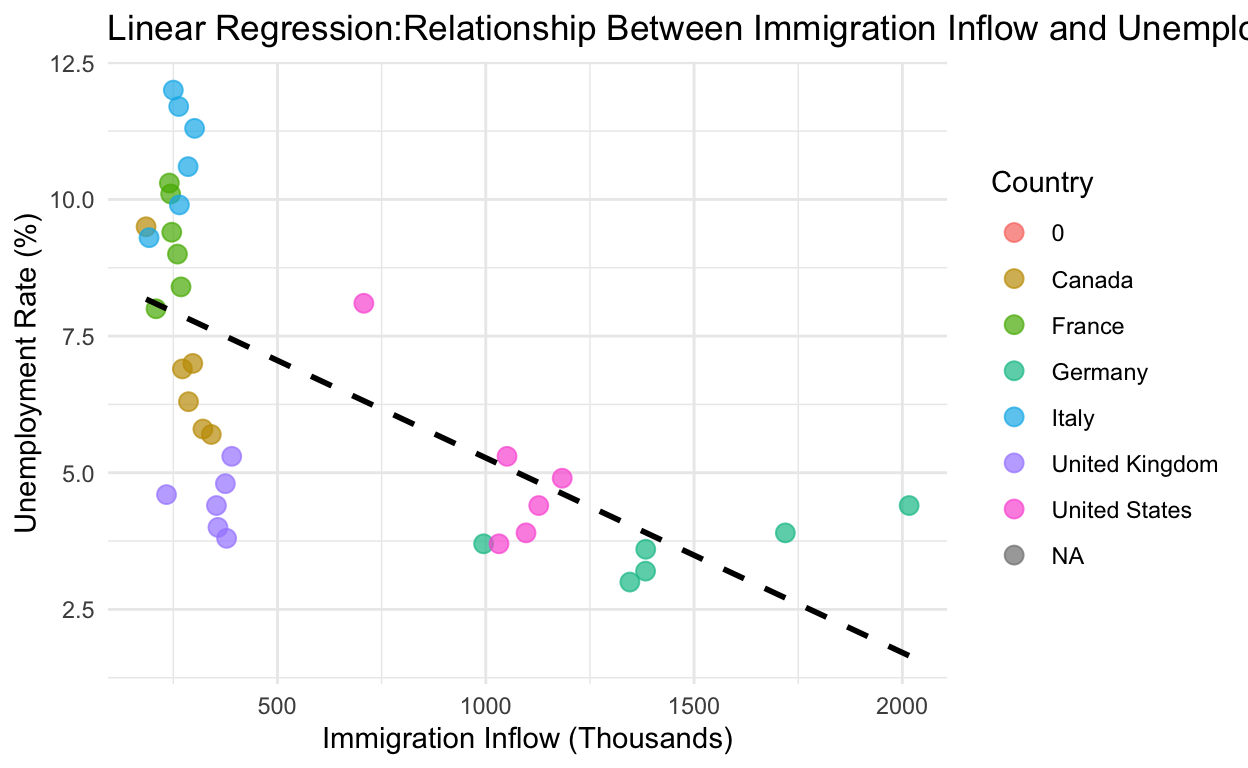
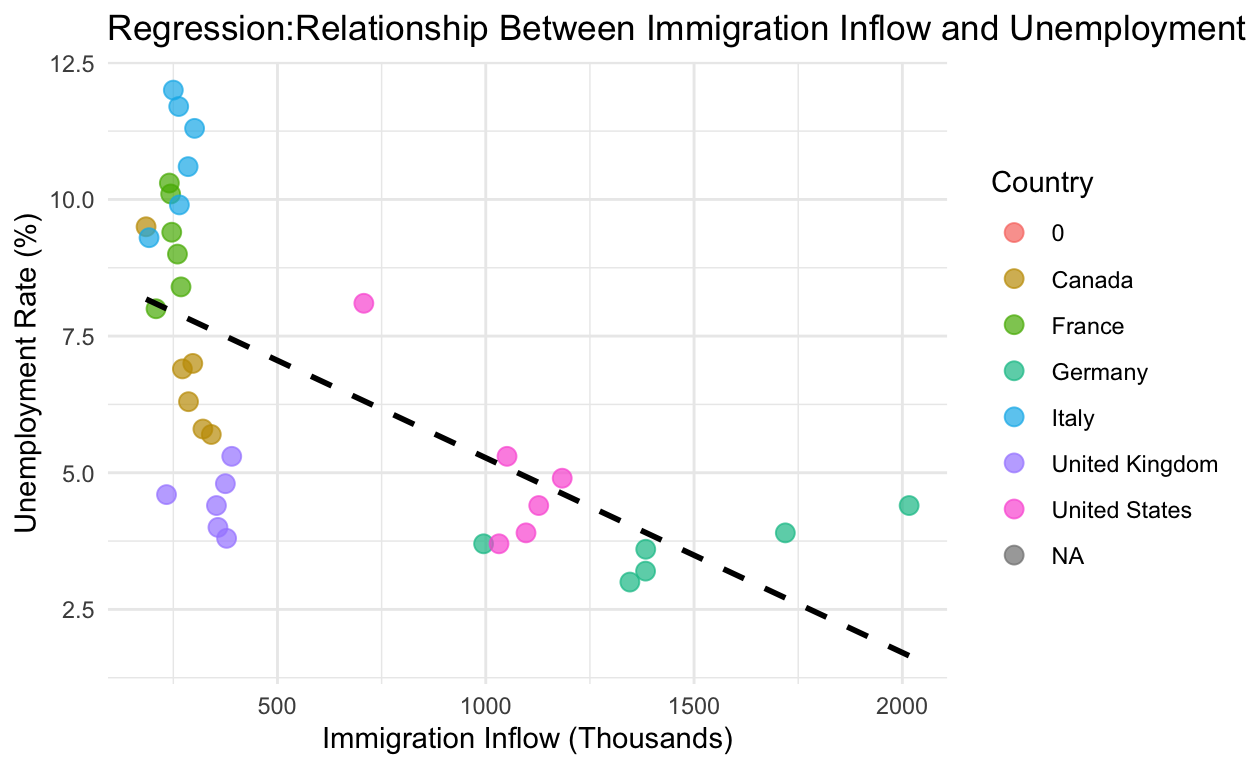
Final Proj 3

Changed region(s): [[0.0938, 0.0, 1.0, 0.0625]]

diff --git a/index.html b/index.html
@@ -1726,7 +1726,7 @@ F-statistic: 23.74 on 1 and 34 DF,  p-value: 2.515e-05</code></pre>
 <span>  <span class='fu'><a href='https://ggplot2.tidyverse.org/reference/geom_point.html'>geom_point</a></span><span class='op'>(</span>size <span class='op'>=</span> <span class='fl'>3</span>, alpha <span class='op'>=</span> <span class='fl'>0.7</span><span class='op'>)</span> <span class='op'>+</span></span>
 <span>  <span class='fu'><a href='https://ggplot2.tidyverse.org/reference/geom_smooth.html'>geom_smooth</a></span><span class='op'>(</span>method <span class='op'>=</span> <span class='st'>"lm"</span>, se <span class='op'>=</span> <span class='cn'>FALSE</span>, color <span class='op'>=</span> <span class='st'>"black"</span>, linetype <span class='op'>=</span> <span class='st'>"dashed"</span><span class='op'>)</span> <span class='op'>+</span></span>
 <span>  <span class='fu'><a href='https://ggplot2.tidyverse.org/reference/labs.html'>labs</a></span><span class='op'>(</span></span>
-<span>    title <span class='op'>=</span> <span class='st'>"Linear Regression:Relationship Between Immigration Inflow and Unemployment"</span>,</span>
+<span>    title <span class='op'>=</span> <span class='st'>"Regression:Relationship Between Immigration Inflow and Unemployment"</span>,</span>
 <span>    x <span class='op'>=</span> <span class='st'>"Immigration Inflow (Thousands)"</span>,</span>
 <span>    y <span class='op'>=</span> <span class='st'>"Unemployment Rate (%)"</span>,</span>
 <span>    color <span class='op'>=</span> <span class='st'>"Country"</span></span>
